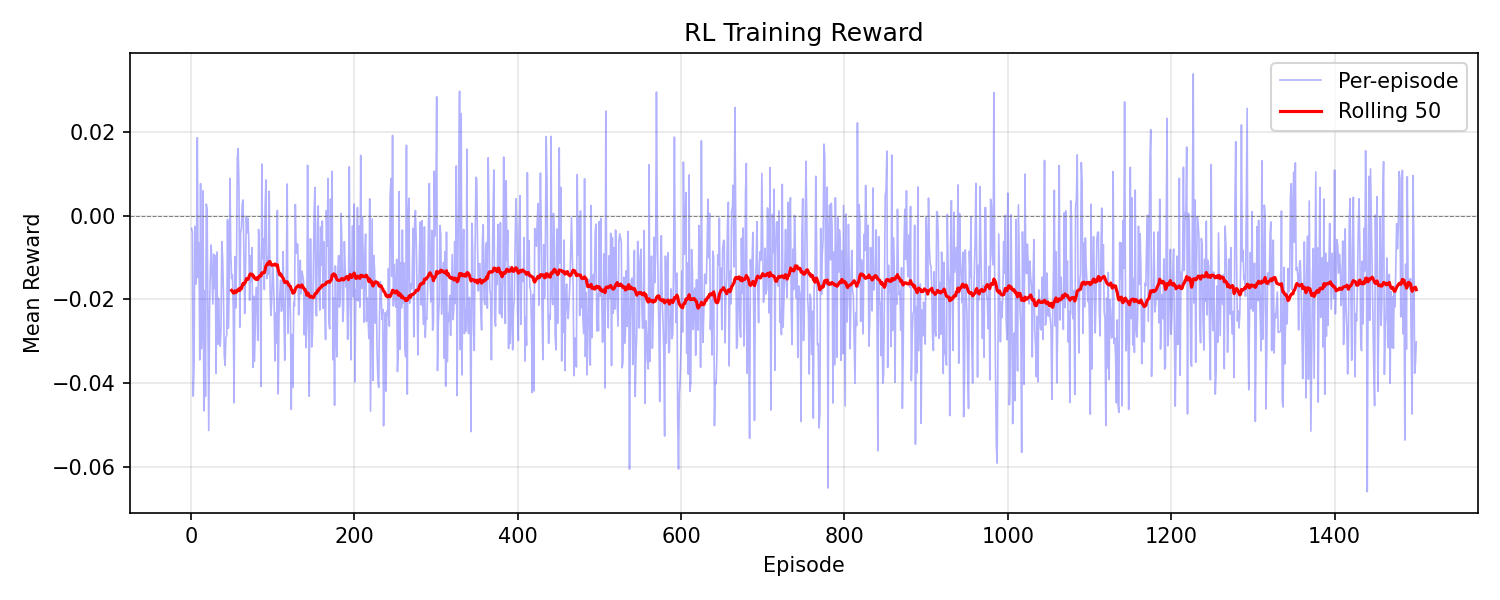
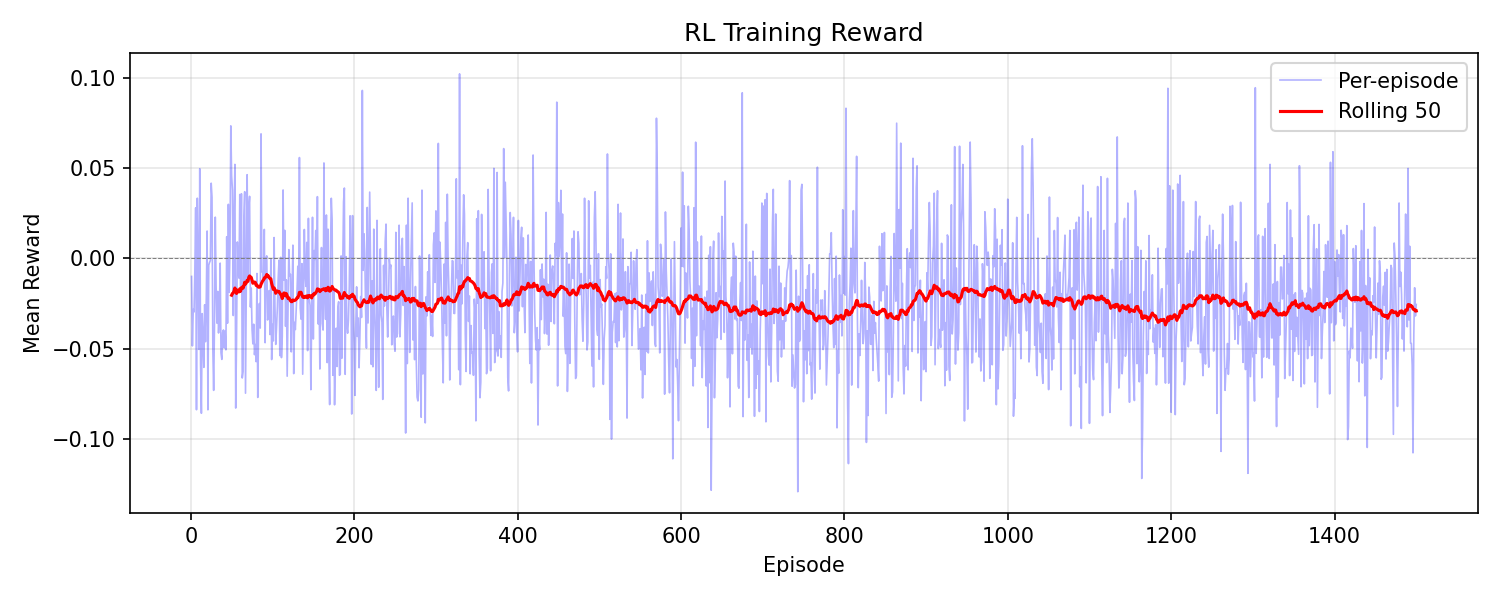
Add diagnostic code

diff --git a/grpo_trainer.py b/grpo_trainer.py
@@ -42,6 +42,27 @@ class GRPOTrainer:
         if self.step_count % self.ref_refresh_steps == 0 and self.step_count > 0:
             self.ref_policy.load_state_dict(self.policy.state_dict())
 
+    def _print_diag(self, rewards_t, advantages, action_hashes,
+                    policy_loss, kl_avg, aux_loss_val,
+                    policy_gnorm, enc_gnorm):
+        r = rewards_t.detach().float()
+        a = advantages.detach().float()
+        n_unique = len(set(action_hashes)) if action_hashes else 0
+        pl = policy_loss.item()
+        kl_term = self.beta * kl_avg.item()
+        aux_term = config.LAMBDA_AUX * aux_loss_val
+        print(f"  [DIAG step {self.step_count}]"
+              + ("  (SMOKE)" if config.DIAG_SMOKE_TEST else ""))
+        print(f"    D1 reward   : mean={r.mean():.6f} std={r.std():.6f} "
+              f"min={r.min():.6f} max={r.max():.6f}")
+        print(f"    D1 advantage: mean={a.mean():.6f} std={a.std():.6f} "
+              f"min={a.min():.6f} max={a.max():.6f}")
+        print(f"    D2 traj div : {n_unique}/{self.G} unique action seqs")
+        print(f"    D3 grad norm: encoder={enc_gnorm:.6f} "
+              f"policy={policy_gnorm:.6f}")
+        print(f"    D4 loss part: policy={pl:.6f} "
+              f"kl_term={kl_term:.6f} aux_term={aux_term:.6f}")
+
     def collect_trajectory_and_update(self, env, obs_cache, start_idx, device):
         """Run G full episodes from start_idx, compute trajectory-level GRPO.
 
@@ -50,8 +71,16 @@ class GRPOTrainer:
         """
         self._maybe_refresh_ref()
 
+        diag_on = (config.DIAG_INTERVAL > 0 and
+                   self.step_count % config.DIAG_INTERVAL == 0)
+
         bins = torch.tensor(config.BINS, device=device, dtype=torch.float32)
         init_env = env.clone()
+
+        # DIAG5: smoke test 用确定性合成 alpha 替代真实奖励，隔离金融噪声
+        if config.DIAG_SMOKE_TEST and not hasattr(self, "_synth_alpha"):
+            n = init_env.n_stocks
+            self._synth_alpha = np.sin(np.arange(n) * 0.7).astype(np.float32)
 
         trajectory_rewards = []
         trajectory_log_probs = []
@@ -59,6 +88,7 @@ class GRPOTrainer:
         noise_cache = {}
         aux_enc_list = []
         aux_ret_list = []
+        traj_action_hashes = []  # DIAG2: 每条轨迹的动作序列哈希
 
         for g in range(self.G):
             env_g = init_env.clone()
@@ -69,6 +99,7 @@ class GRPOTrainer:
             total_kl = torch.tensor(0.0, device=device)
             n_steps = 0
             done = False
+            traj_actions = []  # DIAG2: 本条轨迹的动作序列
 
             for day in range(config.EPISODE_LEN):
                 if done:
@@ -90,6 +121,8 @@ class GRPOTrainer:
                                            denoise_noise=shared_noise)
                         cur_dist = self.policy(enc, port_state, mask_t, phase)
                     action = cur_dist.sample()
+                    if diag_on:
+                        traj_actions.append(action.detach())
                     lp = cur_dist.log_prob(action)
                     if lp.dim() > 0:
                         lp = lp.mean()
@@ -131,6 +164,10 @@ class GRPOTrainer:
                         target_w = target_w / w_sum
 
                     _, reward, done, _ = env_g.step(target_w)
+                    if config.DIAG_SMOKE_TEST:
+                        # 确定性合成奖励：组合权重与固定 alpha 的内积。
+                        # 与动作强相关、无金融噪声，用于隔离测试管线能否学习。
+                        reward = float(np.dot(target_w, self._synth_alpha))
                     total_reward += reward
                     if done:
                         break
@@ -138,6 +175,10 @@ class GRPOTrainer:
             trajectory_rewards.append(total_reward)
             trajectory_log_probs.append(total_log_prob)
             trajectory_kls.append(total_kl / max(n_steps, 1))
+
+            if diag_on and traj_actions:
+                flat = torch.cat([a.reshape(-1) for a in traj_actions])
+                traj_action_hashes.append(hash(flat.cpu().numpy().tobytes()))
 
         rewards_t = torch.tensor(trajectory_rewards, device=device,
                                  dtype=torch.float32)
@@ -153,12 +194,14 @@ class GRPOTrainer:
         policy_loss = -(advantages.detach() * log_probs_t).mean()
         loss = policy_loss + self.beta * kl_avg
 
+        aux_loss_val = 0.0
         if self.return_predictor is not None and aux_enc_list:
             aux_enc = torch.cat(aux_enc_list, dim=0)
             aux_target = torch.cat(aux_ret_list, dim=0)
             with torch.amp.autocast('cuda', enabled=self.use_amp):
                 aux_pred = self.return_predictor(aux_enc)
             aux_loss = F.mse_loss(aux_pred, aux_target)
+            aux_loss_val = aux_loss.item()
             loss = loss + config.LAMBDA_AUX * aux_loss
 
         self.optimizer_policy.zero_grad()
@@ -171,8 +214,10 @@ class GRPOTrainer:
             self.scaler.unscale_(self.optimizer_encoder)
             if self.return_predictor is not None:
                 self.scaler.unscale_(self.optimizer_aux)
-            torch.nn.utils.clip_grad_norm_(self.policy.parameters(), 1.0)
-            torch.nn.utils.clip_grad_norm_(self.encoder.parameters(), 1.0)
+            policy_gnorm = torch.nn.utils.clip_grad_norm_(
+                self.policy.parameters(), 1.0)
+            enc_gnorm = torch.nn.utils.clip_grad_norm_(
+                self.encoder.parameters(), 1.0)
             self.scaler.step(self.optimizer_policy)
             self.scaler.step(self.optimizer_encoder)
             if self.return_predictor is not None:
@@ -180,12 +225,20 @@ class GRPOTrainer:
             self.scaler.update()
         else:
             loss.backward()
-            torch.nn.utils.clip_grad_norm_(self.policy.parameters(), 1.0)
-            torch.nn.utils.clip_grad_norm_(self.encoder.parameters(), 1.0)
+            policy_gnorm = torch.nn.utils.clip_grad_norm_(
+                self.policy.parameters(), 1.0)
+            enc_gnorm = torch.nn.utils.clip_grad_norm_(
+                self.encoder.parameters(), 1.0)
             self.optimizer_policy.step()
             self.optimizer_encoder.step()
             if self.return_predictor is not None:
                 self.optimizer_aux.step()
+
+        if diag_on:
+            self._print_diag(
+                rewards_t, advantages, traj_action_hashes,
+                policy_loss, kl_avg, aux_loss_val,
+                float(policy_gnorm), float(enc_gnorm))
 
         self.step_count += 1
         return {

diff --git a/config.py b/config.py
@@ -69,6 +69,10 @@ WARMUP_LR = 1e-3
 LAMBDA_AUX = 0.05
 LAMBDA_BENCHMARK = 0.5
 
+# ====== 诊断开关（默认不影响原算法）======
+DIAG_INTERVAL = 10       # 每多少个 update 打印一次诊断指标；设 0 关闭
+DIAG_SMOKE_TEST = False  # True 时用合成奖励测试 RL 管线（需手动开启）
+
 # ====== Diffusion Denoiser 超参 ======
 USE_DIFFUSION_DENOISER = True
 DIFFUSION_T = 200